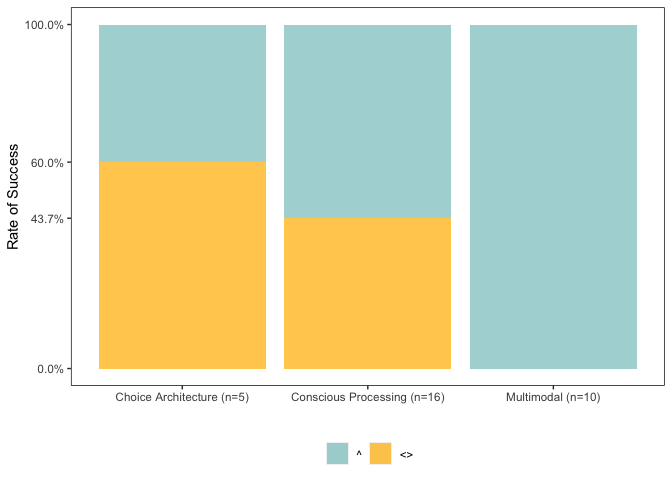
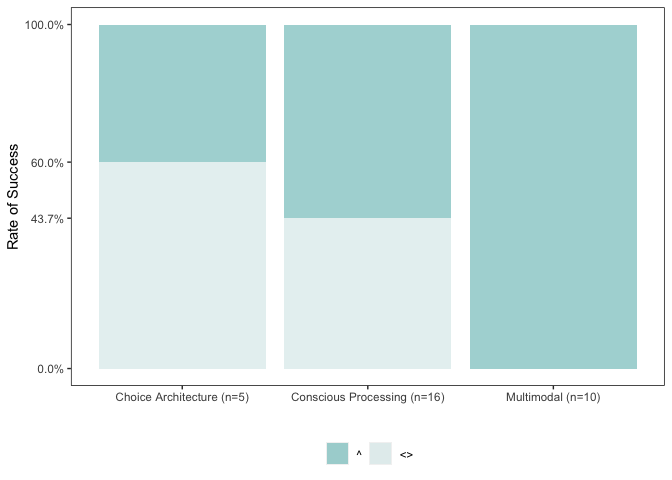
updated color scheme across plots

Changed region(s): [[0.125, 0.3125, 0.6875, 0.7812], [0.5312, 0.9062, 0.5938, 0.9688]]

diff --git a/markdowns/visuals.md b/markdowns/visuals.md
@@ -86,7 +86,7 @@ ggplot(times.series,aes(x=year,y=cumul.freq,fill=fill)) +
 ``` r
 ggplot(sr.dataset,aes(x=approach,y=num.study,fill=effect.dir)) + 
   geom_col(position="fill",alpha=.8) + 
-  scale_fill_manual(values =c("paleturquoise3","goldenrod1"),guide=guide_legend(title=NULL)) +
+  scale_fill_manual(values=c("paleturquoise3","azure2"),guide=guide_legend(title=NULL)) +
   scale_x_discrete(labels=c("Choice Architecture (n=5)","Conscious Processing (n=16)","Multimodal (n=10)")) +
   scale_y_continuous(labels=scales::percent_format(.1L),breaks=c(1,.6,.437,0)) +
   xlab(" ") + 
@@ -147,7 +147,7 @@ ggplot(fixed.effect,aes(x=effect.mag,y=study.title,fill=approach)) +
   ylab(" ") + 
   scale_x_continuous(breaks=c(0,2,4,6,8),limits=c(0,8)) +
   labs(color=" ") +
-  scale_fill_brewer(breaks=c("Multimodal","Choice Architecture","Conscious Processing"),palette="Set2",labels=c("Multimodal (n=10)","Choice Architecture (n=5)","Conscious Processing (n=16)")) +
+  scale_fill_manual(guide=guide_legend(title=NULL),breaks=c("Multimodal","Choice Architecture","Conscious Processing"),values=c("thistle3","lightsteelblue3","lightcoral"),labels=c("Multimodal (n=10)","Choice Architecture (n=5)","Conscious Processing (n=16)")) +
   scale_y_discrete(limits=c("Garnett et al. (2020a)","Garnett et al. (2021)","Brunner et al. (2018)","Schwitzgebel, Cokelet, & Singer (2020)","Malan (2020)","Larner et al. (2021)","Kurz (2018)","Garnett et al. (2019)","Jalil, Tasoff, & Bustamante (2020)","Turnwald & Crum (2019)","Cerezo-Prieto & Frutos-Esteban (2021)","Piester et al. (2020a)","Piester et al. (2020b)","Slapø & Karevold (2019)","Andersson & Nelander (2021)","Michels et al. (2008)","Garnett et al. (2020b)")) + 
   theme(legend.position="bottom",panel.background=element_blank(),panel.border=element_rect(fill=NA),panel.grid.minor=element_blank())
 ```
@@ -161,7 +161,7 @@ ggplot(fixed.effect,aes(x=effect.mag,y=approach,fill=approach)) +
   geom_violin(adjust=1.2,alpha=0.8,size=.3) + 
   stat_summary(fun="mean",geom="point",shape=21,fill="black",size=3) +
   scale_y_discrete(limits=c("Conscious Processing","Choice Architecture","Multimodal")) +
-  scale_fill_brewer(palette="Set2",breaks=c("Multimodal","Choice Architecture","Conscious Processing"),labels=c("Multimodal (n=10)","Choice Architecture (n=5)","Conscious Processing (n=16)")) +
+  scale_fill_manual(values=c("thistle3","lightsteelblue3","lightcoral"),breaks=c("Multimodal","Choice Architecture","Conscious Processing"),labels=c("Multimodal (n=10)","Choice Architecture (n=5)","Conscious Processing (n=16)")) +
   xlab("Mean Effect Size") + 
   ylab(" ") +
   labs(fill=" ") +
